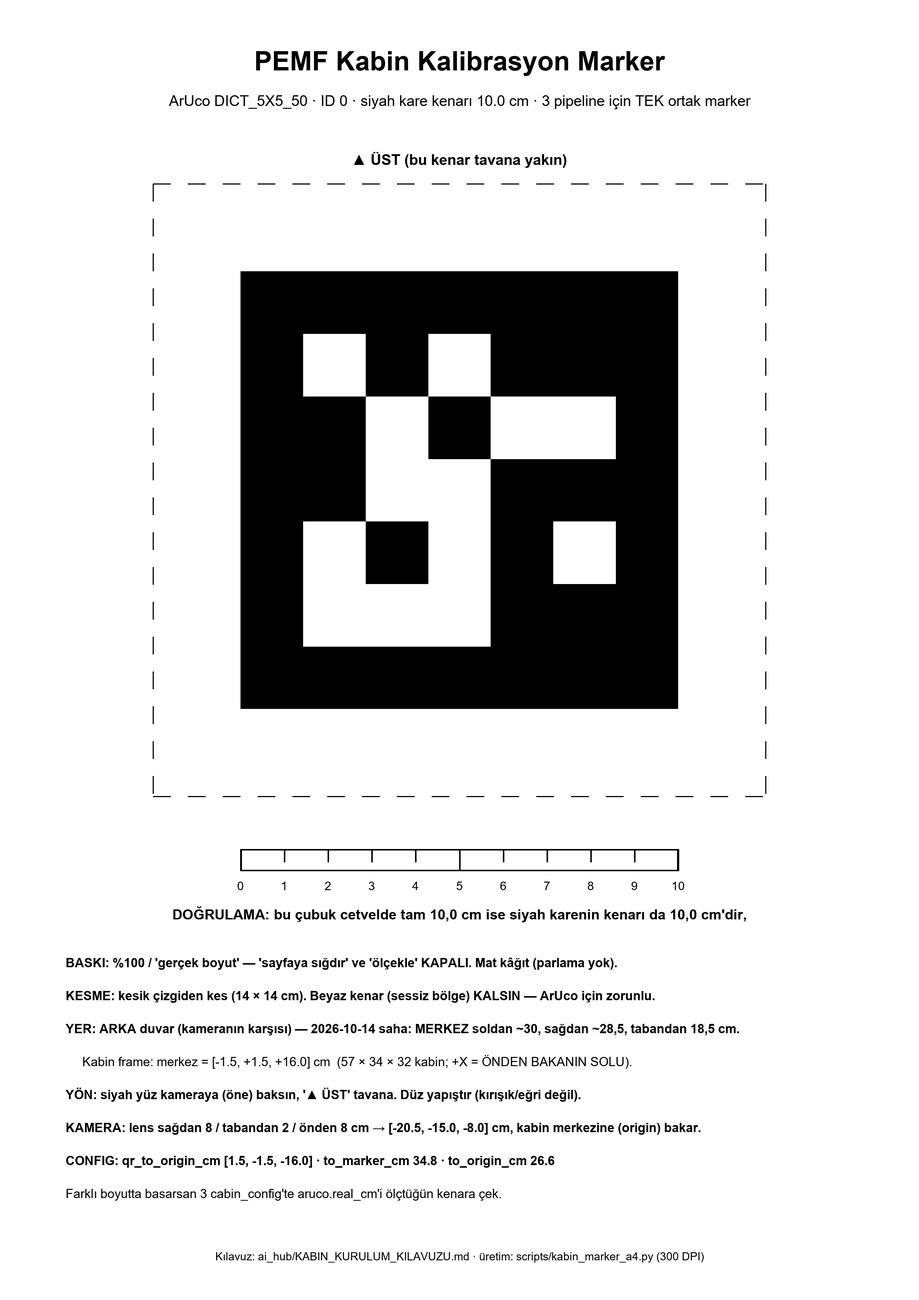
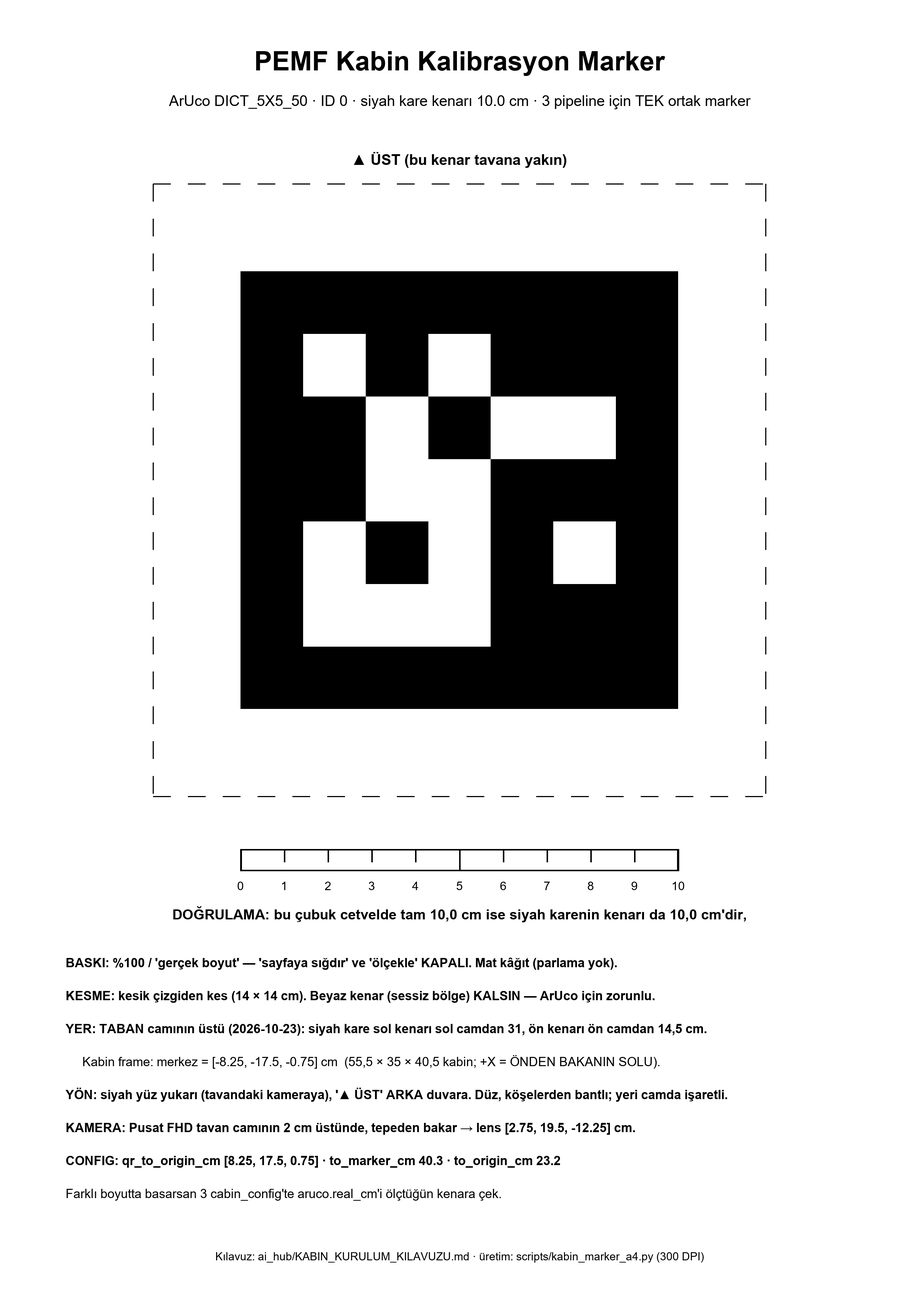
data(kabin): T3 TEZGAH-2B §7 kabin ölçüleri — taban işareti + tavan kamerası, 55,5×35×40,5, hedef düzlemi −17,2, petri deney yeri
Üç kabin YAML'ı (petri v2 · fantom v3 · kedi) TEZGÂH-2B (2026-10-23, sahip şerit metre + ArUco) değerleriyle:
işaret taban camının üstünde (normal "+Y", up_cabin [0, 0, 1]), qr_to_origin [8.25, 17.5, 0.75], cabin_extent
[55.5, 35.0, 40.5], lens [2.75, 19.5, -12.25] (to_marker 40.3 / to_origin 23.2), hedef düzlemi Y −17,2 (petri kuyu
tabanı; fantom aynı değeri taşır — "iki YAML bir kabin" kapısı; fantom kalınlığı ölçülmedi, fantom AI Pro kapalı Y145),
petri multiwell.placement deney yeri a1 [161.7, -172.0, -14.1] / col [-1, 0, 0] / row [0, 0, -1] (yalnız işaret
görünmezken kullanılır; T2B B7). intrinsics_npz T2D'deki M2 dosyası, değişmedi.
Kapı test_kabin_config_65x50x50 yeni değerlere ve taban işareti sessiz bölge kuralına; basılı işaret sayfasının
talimatı (+ PNG yeniden üretildi) ve kabin kılavuzu aynı sayıları söyler. Kod davranışı değişmedi.
Kabin YAML'ını örtük fikstür kullanan testler: sabit test kabini (kabin_test_geometrisi) yönelim alanlarını da
sabitler (normal / up_cabin / hedef düzlemi — 2026-09-08 düzeni); ters işaret kapıları açık TD4 duvar düzeninde (taban
işaretinde `isaret_ters_mi` karar vermez — T2B B3, yayından sonra); kabin dışı bant sabitleri T2B kabinine.

Changed region(s): [[0.1552, 0.7768, 0.7762, 0.9011], [0.1242, 0.7768, 0.1552, 0.8079]]

diff --git a/tests/test_kabin_config_65x50x50.py b/tests/test_kabin_config_65x50x50.py
@@ -1,8 +1,9 @@
 # Author: mertaygn, cglrgrkn
 """Kabin geometrisi + basılı ArUco marker + cat_organ yaml'ı GERÇEKTEN okur (2026-09-08; ölçüler TD4 2026-10-14).
 
-⚠ Dosya adı TARİHÇEDİR (65×50×50). Güncel SAHA kabini (tezgâh Oturum 13, sahip şerit metreyle): iç 57 × 34 × 32 cm;
-işaret arka duvar merkez (-1.5, +1.5, +16), 10 cm; kamera lensi sağdan 8 / tabandan 2 / önden 8 → (-20.5, -15, -8).
+⚠ Dosya adı TARİHÇEDİR (65×50×50). Güncel kabin (TEZGÂH-2B 2026-10-23, sahip şerit metre + ArUco): iç 55,5 × 35 × 40,5 cm;
+işaret TABAN camının üstünde, merkez (-8.25, -17.5, -0.75), 10 cm, siyah yüz yukarı, üst kenarı arka duvara; kamera (Pusat FHD)
+tavan camının üstünde tepeden → lens (2.75, 19.5, -12.25). (Oturum 13 2026-10-14: 57 × 34 × 32, arka duvar işareti — eski.)
 Eksen kuralı: +X = ÖNDEN BAKANIN SOLU (eski açıklamalar "sağ = +X" diyordu — aynaydı). Bu dosya ÖLÇER:
   (a) üç yaml parse edilir, aynı geometriyi taşır, mesafeler vektörlerden hesaplananla ±0.2 cm uyuşur,
       marker sözlüğü/kenarı basılı sayfa üreticisinin sabitleriyle aynıdır;
@@ -29,10 +30,10 @@ YAMLLAR = {
     "em_fantom": KOK / "ai_hub" / "inference_em_fantom" / "phantom_cv_v3" / "cabin_config_v3.yaml",
     "petri": KOK / "ai_hub" / "inference_petri_dish" / "petri_cv_v2" / "cabin_config_v2.yaml",
 }
-# TD4 (2026-10-14 saha olcusu, tezgah Oturum 13 yamasi). Sessiz bolge kurali kenardan TURETILIR (asagida).
-EXTENT = [57.0, 34.0, 32.0]
-KAMERA = [-20.5, -15.0, -8.0]
-MARKER = [-1.5, 1.5, 16.0]
+# T2B (2026-10-23 olcusu; TEZGAH-2B.md §7). Sessiz bolge kurali kenardan TURETILIR (asagida).
+EXTENT = [55.5, 35.0, 40.5]
+KAMERA = [2.75, 19.5, -12.25]
+MARKER = [-8.25, -17.5, -0.75]
 ISARET_KENAR_CM = 10.0
 SESSIZ_CM = 2.0
 
@@ -52,20 +53,20 @@ def test_KRITIK_yaml_geometri_65x50x50_ve_mesafeler_tutarli(ad):
     assert marker == MARKER, f"{ad}: marker merkezi {marker} (qr_to_origin={g['qr_to_origin_cm']})"
     # ⚠ Isaret + sessiz bolge duvar/tavana SIGMALI: merkez >= kenar/2 + sessiz kadar iceride.
     # Sabit "7" idi ve 10 cm isarete gore hesaplanmisti; 15 cm'de 9,5 cm gerekir -> kenardan TURET.
+    # Taban işareti: sessiz bölge X (sol / sağ cam) ve Z (ön / arka cam) yönünde sığmalı.
     ic = float(a["real_cm"]) / 2 + SESSIZ_CM
-    assert -EXTENT[0] / 2 + ic <= marker[0], (
-        f"{ad}: marker sol duvara {marker[0] + EXTENT[0] / 2:.1f} cm — sessiz bölge taşar (asgari {ic})"
-    )
-    assert marker[1] <= EXTENT[1] / 2 - ic, (
-        f"{ad}: marker tavana {EXTENT[1] / 2 - marker[1]:.1f} cm — sessiz bölge taşar (asgari {ic})"
-    )
-    assert marker[2] == EXTENT[2] / 2, f"{ad}: marker arka duvarda değil"
+    for i, eksen in ((0, "sol / sağ cam"), (2, "ön / arka cam")):
+        assert -EXTENT[i] / 2 + ic <= marker[i] <= EXTENT[i] / 2 - ic, (
+            f"{ad}: marker {eksen} yönünde kenara {EXTENT[i] / 2 - abs(marker[i]):.1f} cm — sessiz bölge taşar (asgari {ic})"
+        )
+    assert marker[1] == -EXTENT[1] / 2, f"{ad}: marker taban camının üstünde değil (Y={marker[1]})"
     to_o = math.dist(KAMERA, [0, 0, 0])
     to_m = math.dist(KAMERA, marker)
     assert abs(to_o - float(c["to_origin_cm"])) <= 0.2, f"{ad}: to_origin {c['to_origin_cm']} ≠ {to_o:.2f}"
     assert abs(to_m - float(c["to_marker_cm"])) <= 0.2, f"{ad}: to_marker {c['to_marker_cm']} ≠ {to_m:.2f}"
     assert a["dict"] == "DICT_5X5_50" and float(a["real_cm"]) == ISARET_KENAR_CM
-    assert str(a["normal_axis_in_cabin"]).upper() == "-Z", "marker arka duvarda öne (kameraya) bakar"
+    assert str(a["normal_axis_in_cabin"]).upper() == "+Y", "marker tabanda yukarı (tavandaki kameraya) bakar"
+    assert [float(x) for x in c["up_cabin"]] == [0.0, 0.0, 1.0], f"{ad}: işaretin üst kenarı arka duvara (+Z)"
 
 
 def test_uc_pipeline_AYNI_kabini_tanimlar():
@@ -110,7 +111,7 @@ def test_marker_sayfasi_uretici_sabitleri_yaml_ile_AYNI():
     assert re.search(r'^DICT_ADI = "DICT_5X5_50"$', src, re.M) and re.search(r"^MARKER_ID = 0$", src, re.M)
     assert re.search(rf"^KENAR_CM = {ISARET_KENAR_CM:g}\.0", src, re.M)
     # sayfadaki talimat kabin sayılarını yaml ile aynı söyler
-    assert "[-1.5, +1.5, +16.0]" in src and "[-20.5, -15.0, -8.0]" in src and "[1.5, -1.5, -16.0]" in src
+    assert "[-8.25, -17.5, -0.75]" in src and "[2.75, 19.5, -12.25]" in src and "[8.25, 17.5, 0.75]" in src
 
 
 def test_marker_sayfasi_cv2_ile_ID0_ve_KENAR_bulunur():
@@ -129,7 +130,14 @@ def test_marker_sayfasi_cv2_ile_ID0_ve_KENAR_bulunur():
 
 def test_kilavuz_ayni_sayilari_soyler_ve_marker_png_depoda():
     k = (KOK / "ai_hub" / "KABIN_KURULUM_KILAVUZU.md").read_text(encoding="utf-8")
-    for s in ("[57, 34, 32]", "[-20.5, -15, -8]", "[-1.5, +1.5, +16]", "[1.5, -1.5, -16]", "26.6", "34.8"):
+    for s in (
+        "[55.5, 35, 40.5]",
+        "[2.75, 19.5, -12.25]",
+        "[-8.25, -17.5, -0.75]",
+        "[8.25, 17.5, 0.75]",
+        "23.2",
+        "40.3",
+    ):
         assert s in k, f"kılavuzda {s} yok"
     sayfa = f"PEMF_ArUco_Marker_5X5_50_ID0_{ISARET_KENAR_CM:g}cm_A4"
     assert f"{sayfa}.pdf" in k and "kabin_marker_a4.py" in k

diff --git a/tests/kabin_test_geometrisi.py b/tests/kabin_test_geometrisi.py
@@ -2,8 +2,10 @@
 # Author: mertaygn, cglrgrkn
 """Test aparatı (TD4, 2026-10-14): MANTIK kapıları için SABİT test kabini — 2026-09-08 düzeni (65 × 50 × 50 cm).
 
-NEDEN: ürün kabin YAML'ı artık SAHA ölçüsünü taşır (tezgâh Oturum 13: iç 57 × 34 × 32, kamera ve işaret YENİDEN yerleşecek →
-konum alanları yine değişecek). Kabin sınırı / koordinat dönüşümü / kıskaç kapıları bant ve mutantlarını belirli bir geometride
+NEDEN: ürün kabin YAML'ı SAHA ölçüsünü taşır (tezgâh Oturum 13: iç 57 × 34 × 32 → T2B 2026-10-23: 55,5 × 35 × 40,5, işaret
+TABANDA, kamera tavanda; yerleşim yine değişebilir). T3 (2026-10-23): yönelim alanları (işaret normali, `up_cabin`, hedef düzlemi) da
+sabitlenir — işaret tabana inince ürün YAML'ından gelen normal / up bu düzenin arka duvar işaretiyle ÇELİŞİYORDU (D1.100 "kameranın
+arkasında kesişen ışın" aparatı pikseli bulamadı, marker→kabin rotasyon kapısı taban dönüşümünü gördü). Kabin sınırı / koordinat dönüşümü / kıskaç kapıları bant ve mutantlarını belirli bir geometride
 ölçer: ör. Y49'un hedeflediği `yari = min(300, extent/2)` mutantı yarı genişlik 285 mm'de EŞDEĞER olur (kapı körleşir), i7 F-9
 "kabin içi ama eğitim dışı x ∈ (300, 325]" bandı yeni kabinde hiç yoktur. Bu testler geometriyi buradan alır; ÜRÜN geometrisi
 `tests/test_kabin_config_65x50x50.py` + `tests/test_TD4_kabin_ISARET_TERS_tavan_up_cabin_ve_intrinsics.py` ile denetlenir.
@@ -19,18 +21,51 @@ SABIT = {
     "to_marker_cm": 83.3,
     "to_origin_cm": 48.0,
     "real_cm": 15.0,
+    # T3: yönelim (2026-09-08 düzeni = arka duvar işareti, yüzü öne; üst kenarı tavana; hedef düzlemi Y = -20 cm).
+    "normal_axis_in_cabin": "-Z",
+    "up_cabin": [0.0, 1.0, 0.0],
+    "hedef_duzlem_eksen": "Y",
+    "hedef_duzlem_cm": -20.0,
 }
+
+#: TD4 DUVAR DÜZENİ (tezgâh Oturum 13, 2026-10-14 saha ölçüsü; T2B'ye dek ürün YAML'ıydı): arka duvar işareti — `isaret_ters_mi`
+#: (ters kâğıt) mekanizması YALNIZ duvar işaretinde karar verir; ürün kabini T2B'den beri TABAN işareti (karar vermez — T2B B3).
+TD4_DUVAR = {
+    "cabin_extent_cm": [57.0, 34.0, 32.0],
+    "qr_to_origin_cm": [1.5, -1.5, -16.0],
+    "fixed_position_cm": [-20.5, -15.0, -8.0],
+    "to_marker_cm": 34.8,
+    "to_origin_cm": 26.6,
+    "real_cm": 10.0,
+    "normal_axis_in_cabin": "-Z",
+    "up_cabin": [0.0, 1.0, 0.0],
+    "hedef_duzlem_eksen": "Y",
+    "hedef_duzlem_cm": -20.0,
+}
+
+
+def _uygula(cfg, g):
+    cfg.geometry.cabin_extent_cm = list(g["cabin_extent_cm"])
+    cfg.geometry.qr_to_origin_cm = list(g["qr_to_origin_cm"])
+    cfg.camera.fixed_position_cm = list(g["fixed_position_cm"])
+    cfg.camera.to_marker_cm = g["to_marker_cm"]
+    cfg.camera.to_origin_cm = g["to_origin_cm"]
+    cfg.camera.up_cabin = list(g["up_cabin"])
+    cfg.aruco.real_cm = g["real_cm"]
+    cfg.aruco.normal_axis_in_cabin = g["normal_axis_in_cabin"]
+    cfg.phantom_plate.hedef_duzlem_eksen = g["hedef_duzlem_eksen"]
+    cfg.phantom_plate.hedef_duzlem_cm = g["hedef_duzlem_cm"]
+    return cfg
 
 
 def sabit_kabin(cfg):
     """`ai_hub.cv_ortak.cabin_config.CabinConfig` → sabit test kabinine çevir (yerinde) ve döndür."""
-    cfg.geometry.cabin_extent_cm = list(SABIT["cabin_extent_cm"])
-    cfg.geometry.qr_to_origin_cm = list(SABIT["qr_to_origin_cm"])
-    cfg.camera.fixed_position_cm = list(SABIT["fixed_position_cm"])
-    cfg.camera.to_marker_cm = SABIT["to_marker_cm"]
-    cfg.camera.to_origin_cm = SABIT["to_origin_cm"]
-    cfg.aruco.real_cm = SABIT["real_cm"]
-    return cfg
+    return _uygula(cfg, SABIT)
+
+
+def td4_duvar_kabini(cfg):
+    """`CabinConfig` → TD4 duvar düzenine çevir (yerinde) ve döndür (ters işaret kapıları)."""
+    return _uygula(cfg, TD4_DUVAR)
 
 
 def sabit_kabin_dict(cfg: dict) -> dict:
@@ -46,8 +81,11 @@ def sabit_kabin_dict(cfg: dict) -> dict:
         fixed_position_cm=list(SABIT["fixed_position_cm"]),
         to_marker_cm=SABIT["to_marker_cm"],
         to_origin_cm=SABIT["to_origin_cm"],
+        up_cabin=list(SABIT["up_cabin"]),
     )
-    d["aruco"] = dict(d.get("aruco") or {}, real_cm=SABIT["real_cm"])
+    d["aruco"] = dict(
+        d.get("aruco") or {}, real_cm=SABIT["real_cm"], normal_axis_in_cabin=SABIT["normal_axis_in_cabin"]
+    )
     return d
 
 

diff --git a/tests/test_TD4_kabin_ISARET_TERS_tavan_up_cabin_ve_intrinsics.py b/tests/test_TD4_kabin_ISARET_TERS_tavan_up_cabin_ve_intrinsics.py
@@ -9,8 +9,11 @@
     yükleme sessizce kabul ediyordu.
   * `intrinsics_npz` kalibrasyonu farklı çözünürlükteyse fantom v3 hattı K'yı ÖLÇEKLEMİYOR (petri v2 ölçekliyor —
     2026-09-09 kuralı) → solvePnP mesafeyi çözünürlük oranı kadar yanlış verir.
-DÜZENEK: ÜRÜN YAML'ından fiziksel tutarlı poz (tests/kabin_fiziksel_poz.py) + GERÇEK ArUco görüntüsü sentezlenir (cv2.aruco
-işareti + sessiz bölge, homografiyle kameranın gördüğü yere) → GERÇEK `detect_aruco_marker` + `solve_cabin_pose` + hat.
+DÜZENEK: TD4 DUVAR DÜZENİ (Oturum 13 ölçüsü, `kabin_test_geometrisi.td4_duvar_kabini`) ile ürün YAML'ından fiziksel tutarlı poz
+(tests/kabin_fiziksel_poz.py) + GERÇEK ArUco görüntüsü sentezlenir (cv2.aruco işareti + sessiz bölge, homografiyle kameranın gördüğü
+yere) → GERÇEK `detect_aruco_marker` + `solve_cabin_pose` + hat. T3 (2026-10-23): ürün kabini T2B'den beri TABAN işareti; ters
+işaret kararı yalnız duvar işaretinde verilir (`isaret_ters_mi` taban / tavanda False — T2B B3, yayından sonra) → mekanizma kapısı
+duvar düzeninde ölçülür.
 """
 
 from __future__ import annotations
@@ -35,9 +38,11 @@ def _ct():
 
 
 def _cfg(p=FANTOM_YAML):
+    from kabin_test_geometrisi import td4_duvar_kabini
+
     from ai_hub.cv_ortak.cabin_config import load_cabin_config
 
-    return load_cabin_config(p)
+    return td4_duvar_kabini(load_cabin_config(p))
 
 
 def _sentetik(cfg, *, ters: bool, boyut=(1280, 720)):
@@ -186,7 +191,11 @@ from test_koordinat_donusumu_FIZIKSEL_poz_DOGRULUK_ve_RED import _aruco_yamala  
 @pytest.mark.parametrize("ters", [False, True])
 def test_KRITIK_petri_hatti_ters_isarette_UYARIR(petri_hatti, monkeypatch, ters):
     """Petri v2 hattı da (GERÇEK `process_image`, sahte YOLO + ArUco aparatı) ters işareti söyler; düz işarette söylemez."""
+    from kabin_test_geometrisi import td4_duvar_kabini
+
     pp, kos, _Yolo = petri_hatti
+    _gercek_yukle = pp.load_cabin_config
+    monkeypatch.setattr(pp, "load_cabin_config", lambda *a, **k: td4_duvar_kabini(_gercek_yukle(*a, **k)))
     _aruco_yamala(pp, monkeypatch, [])
     if ters:  # kâğıt 180°: işaretin +Y'si kamerada AŞAĞI
         asil = pp.solve_cabin_pose

diff --git a/scripts/kabin_marker_a4.py b/scripts/kabin_marker_a4.py
@@ -119,11 +119,11 @@ def sayfa_uret() -> Image.Image:
     satirlar = [
         "BASKI: %100 / 'gerçek boyut' — 'sayfaya sığdır' ve 'ölçekle' KAPALI. Mat kâğıt (parlama yok).",
         "KESME: kesik çizgiden kes (14 × 14 cm). Beyaz kenar (sessiz bölge) KALSIN — ArUco için zorunlu.",
-        "YER: ARKA duvar (kameranın karşısı) — 2026-10-14 saha: MERKEZ soldan ~30, sağdan ~28,5, tabandan 18,5 cm.",
-        "     Kabin frame: merkez = [-1.5, +1.5, +16.0] cm  (57 × 34 × 32 kabin; +X = ÖNDEN BAKANIN SOLU).",
-        "YÖN: siyah yüz kameraya (öne) baksın, '▲ ÜST' tavana. Düz yapıştır (kırışık/eğri değil).",
-        "KAMERA: lens sağdan 8 / tabandan 2 / önden 8 cm → [-20.5, -15.0, -8.0] cm, kabin merkezine (origin) bakar.",
-        "CONFIG: qr_to_origin_cm [1.5, -1.5, -16.0] · to_marker_cm 34.8 · to_origin_cm 26.6",
+        "YER: TABAN camının üstü (2026-10-23): siyah kare sol kenarı sol camdan 31, ön kenarı ön camdan 14,5 cm.",
+        "     Kabin frame: merkez = [-8.25, -17.5, -0.75] cm  (55,5 × 35 × 40,5 kabin; +X = ÖNDEN BAKANIN SOLU).",
+        "YÖN: siyah yüz yukarı (tavandaki kameraya), '▲ ÜST' ARKA duvara. Düz, köşelerden bantlı; yeri camda işaretli.",
+        "KAMERA: Pusat FHD tavan camının 2 cm üstünde, tepeden bakar → lens [2.75, 19.5, -12.25] cm.",
+        "CONFIG: qr_to_origin_cm [8.25, 17.5, 0.75] · to_marker_cm 40.3 · to_origin_cm 23.2",
         "Farklı boyutta basarsan 3 cabin_config'te aruco.real_cm'i ölçtüğün kenara çek.",
     ]
     ty = cy + _cm(2.6)

diff --git a/tests/test_ai_pro_hedef_KABIN_DISI_ve_HEDEF_KAYBI_STOP.py b/tests/test_ai_pro_hedef_KABIN_DISI_ve_HEDEF_KAYBI_STOP.py
@@ -112,18 +112,18 @@ def _kabin_yari_mm() -> tuple:
 
 
 def test_ARAC_kabin_yapilandirmasi_beklenen_yari_boyut():
-    # TD4 (2026-10-14 saha ölçüsü, tezgâh Oturum 13): iç 57 × 34 × 32 cm (eski 65 × 50 × 50).
-    assert _kabin_yari_mm() == (285.0, 170.0, 160.0), f"paketli kabin yapılandırması değişti: {_kabin_yari_mm()}"
+    # T2B (2026-10-23 ölçüsü): iç 55,5 × 35 × 40,5 cm (Oturum 13: 57 × 34 × 32; eski 65 × 50 × 50).
+    assert _kabin_yari_mm() == (277.5, 175.0, 202.5), f"paketli kabin yapılandırması değişti: {_kabin_yari_mm()}"
 
 
 @pytest.mark.parametrize(
     "koord_cm",
     [
-        (0.0, 25.5, 0.0),  # y: 255 mm (eski kabinde ölçülen) > 170
-        (30.0, -30.0, -30.0),  # telde 51/51 sürülen nokta (kıskaç öncesi): y/z kabin dışı
-        (0.0, 17.1, 0.0),  # y sınırın hemen dışı (170 mm — TD4 saha kabini)
-        (0.0, 0.0, 16.1),  # z sınırın hemen dışı (160 mm)
-        (28.6, 0.0, 0.0),  # x sınırın hemen dışı (285 mm)
+        (0.0, 25.5, 0.0),  # y: 255 mm (eski kabinde ölçülen) > 175
+        (30.0, -30.0, -30.0),  # telde 51/51 sürülen nokta (kıskaç öncesi): x/y/z kabin dışı
+        (0.0, 17.6, 0.0),  # y sınırın hemen dışı (175 mm — T2B kabini)
+        (0.0, 0.0, 20.3),  # z sınırın hemen dışı (202,5 mm)
+        (27.8, 0.0, 0.0),  # x sınırın hemen dışı (277,5 mm)
         (math.nan, 0.0, 0.0),
         (0.0, math.inf, 0.0),
         (0.0, 0.0, -math.inf),

diff --git a/ai_hub/KABIN_KURULUM_KILAVUZU.md b/ai_hub/KABIN_KURULUM_KILAVUZU.md
@@ -8,21 +8,23 @@ donanım = kabin + kamera + basılı QR; yazılım = `cabin_config_example.yaml`
 
 ---
 
-## ✅ SAHA KABİNİ (2026-10-14 — tezgâh Oturum 13, sahip şerit metreyle ölçtü)
+## ✅ KABİN (2026-10-23 — TEZGÂH-2B, sahip şerit metre + ArUco; Oturum 13'ün 57 × 34 × 32 / arka duvar düzeni ESKİ)
 
-> ⚠ Sahip: "kamera ve işaret konum değişikliğine gideceğiz" — `qr_to_origin_cm`, `fixed_position_cm`, `to_marker_cm`,
-> `to_origin_cm` YENİ yerleşimde yeniden ölçülecek. Kalıcı olanlar: `cabin_extent_cm` ve `real_cm`.
+> Kamera (Pusat "FHD Camera", 1920×1080) tavan camının 2 cm üstünde, tepeden bakar; işaret TABAN camının üstünde.
+> Kamera ya da işaret kaydırılırsa `qr_to_origin_cm`, `fixed_position_cm`, `to_marker_cm`, `to_origin_cm` yeniden ölçülür.
 
 | Öğe | Değer (origin = kabin merkezi = coil merkezi = 0,0,0) |
 |---|---|
 | **Eksen kuralı** | **+X = ÖNDEN BAKANIN SOLU** (kedinin kafa yönü) · **+Y = yukarı** · **+Z = arkaya** — kodla ölçüldü (TEZGAH-OTURUM-13 §F2). 2026-10-14'e kadar bu kılavuz ve YAML açıklamaları "sağ-alt-ÖN = +X" diyordu: **AYNAYDI** |
-| **Kabin iç boyut** | `cabin_extent_cm: [57, 34, 32]` — [X genişlik, Y yükseklik, Z derinlik (ön −/arka +)] |
-| **Duvarlar** | X = ±28.5 (**sol +28.5, sağ −28.5**) · Y = ±17 (taban −17, tavan +17) · Z = ±16 (ön −16, arka +16) |
-| **Kamera lensi** | `fixed_position_cm: [-20.5, -15, -8]` = **sağdan 8 · tabandan 2 · önden 8 cm**, **origin'e bakar** |
-| **QR marker merkezi** | **ARKA duvar (arka cam, Z=+16)**: soldan ~30 · sağdan ~28,5 · tabandan 18,5 cm → `[-1.5, +1.5, +16]` |
-| **qr_to_origin_cm** | origin − marker = `[1.5, -1.5, -16]` |
-| **Marker** | DICT_5X5_50 · ID 0 · **10×10 cm** (cetvel) · siyah yüz kameraya (öne, `normal_axis "-Z"`) · "▲ ÜST" **tavana** |
-| **Şerit-metre** | kamera→origin = **26.6 cm** · kamera→marker merkezi = **34.8 cm** |
+| **Kabin iç boyut** | `cabin_extent_cm: [55.5, 35, 40.5]` — [X sol↔sağ cam, Y alt↔üst cam, Z ön↔arka cam] |
+| **Duvarlar** | X = ±27.75 (**sol +27.75, sağ −27.75**) · Y = ±17.5 (taban camı −17.5, tavan camı +17.5) · Z = ±20.25 (ön −20.25, arka +20.25) |
+| **Kamera lensi** | `fixed_position_cm: [2.75, 19.5, -12.25]` = **sol camdan 25 · ön camdan 8 · taban camından 37 cm** (tavan camının 2 cm üstü), tepeden bakar |
+| **QR marker merkezi** | **TABAN camının üstü (Y=−17.5)**: siyah kare sol kenarı sol camdan 31 · ön kenarı ön camdan 14,5 cm → `[-8.25, -17.5, -0.75]` |
+| **qr_to_origin_cm** | origin − marker = `[8.25, 17.5, 0.75]` |
+| **Marker** | DICT_5X5_50 · ID 0 · **10×10 cm** (cetvel) · siyah yüz **yukarı** (tavandaki kameraya, `normal_axis "+Y"`) · "▲ ÜST" **arka duvara** (`up_cabin [0, 0, 1]`) |
+| **Şerit-metre** | kamera→origin = **23.2 cm** · kamera→marker merkezi = **40.3 cm** |
+| **Hedef düzlemi** | `hedef_duzlem_cm: -17.2` — 24'lük plaka taban camının üstünde, kuyu tabanı camdan ~0,3 cm |
+| **Plaka deney yeri** | `multiwell.placement.a1_cabin_mm: [161.7, -172.0, -14.1]` — yalnız işaret GÖRÜNMEZKEN kullanılır; plaka camda bantla işaretli yerde durmalı |
 
 > ⚠ **Ters işaret:** 2026-10-14'te kâğıt 180° TERS bulundu ve çevrildi. Kod artık bunu `rvec`'ten görür: analiz sonucunda
 > `marker_upside_down` — "Kabin işareti ters takılmış görünüyor — üst kenar tavana bakacak şekilde çevirin" — ve sonuç
@@ -151,21 +153,21 @@ tam rotasyonun `rvec`ten türetilmesi gerekir (ayrı iş). Yapıştırdıktan so
 | **Origin (0,0,0)** | Kabin merkezi = **coil array merkezi** |
 | **Eksenler** | **+X = önden bakanın SOLU** (genişlik/kafa yönü) · **+Y = yukarı (dorsal)** · **+Z = arka (derinlik)** |
 | **QR marker** | **TEK ortak marker**: `ai_hub/PEMF_ArUco_Marker_5X5_50_ID0_10cm_A4.pdf`. `DICT_5X5_50`, ID `0`, **kenar = 10.0 cm** (saha ölçüsü 2026-10-14, cetvel) |
-| **QR yeri** | **ARKA duvar** (2026-10-14: ortaya yakın, merkez `[-1.5, +1.5, +16]`; sessiz bölge duvara sığmalı: merkez duvardan ≥ 5 + 2 cm); **siyah yüz kameraya (öne) bakar**, "▲ ÜST" tavana. Tavan / taban işaretinde `camera.up_cabin` ZORUNLU |
-| **Kamera** | **origin'e (0,0,0) bakar**, "up" yönü = **+Y**; konum duvarlardan: X = −28.5 + (sağdan), Y = −17 + (tabandan), Z = −16 + (önden) |
+| **QR yeri** | **TABAN camının üstü** (2026-10-23: merkez `[-8.25, -17.5, -0.75]`; sessiz bölge camlara sığmalı: merkez camdan ≥ 5 + 2 cm); **siyah yüz yukarı (kameraya) bakar**, "▲ ÜST" arka duvara. Tavan / taban işaretinde `camera.up_cabin` ZORUNLU. ⚠ Taban işaretinde ters / döndürülmüş kâğıdı kod ANLAMAZ — yeri ve yönü camda bantla işaretli kalır |
+| **Kamera** | tavan camının üstünde, tepeden bakar; konum camlardan: X = 27.75 − (sol camdan), Y = −17.5 + (taban camından), Z = −20.25 + (ön camdan) |
 
 > ⚠ Marker'ı **tam 10×10 cm** bas (sayfadaki 10 cm cetvel çubuğunu cetvelle doğrula). Farklı basarsan
 > 3 config'te `real_cm`'i o değere çek — yoksa ölçek (mm/px) ve 3B konum yanlış olur.
 
 ---
 
-## 2) ÖLÇÜLER (saha — 2026-10-14)
+## 2) ÖLÇÜLER (TEZGÂH-2B — 2026-10-23)
 
 | | cabin_extent [X,Y,Z] | kamera lens [x,y,z] | marker merkezi | qr→origin [x,y,z] |
 |---|---|---|---|---|
-| **cat_organ** | `[57, 34, 32]` | `[-20.5, -15, -8]` | `[-1.5, +1.5, +16]` | `[1.5, -1.5, -16]` |
-| **em_fantom** | `[57, 34, 32]` | `[-20.5, -15, -8]` | `[-1.5, +1.5, +16]` | `[1.5, -1.5, -16]` |
-| **petri** | `[57, 34, 32]` | `[-20.5, -15, -8]` | `[-1.5, +1.5, +16]` | `[1.5, -1.5, -16]` |
+| **cat_organ** | `[55.5, 35, 40.5]` | `[2.75, 19.5, -12.25]` | `[-8.25, -17.5, -0.75]` | `[8.25, 17.5, 0.75]` |
+| **em_fantom** | `[55.5, 35, 40.5]` | `[2.75, 19.5, -12.25]` | `[-8.25, -17.5, -0.75]` | `[8.25, 17.5, 0.75]` |
+| **petri** | `[55.5, 35, 40.5]` | `[2.75, 19.5, -12.25]` | `[-8.25, -17.5, -0.75]` | `[8.25, 17.5, 0.75]` |
 
 Kamera lensi köşeye tam oturmuyorsa (gövde/tripod payı) **gerçek lens konumunu** ölç ve `fixed_position_cm`'e
 yaz; `to_origin_cm` / `to_marker_cm`'i §3'teki formülle yeniden hesapla. Kamera-sabitli modda tek kritik sayı budur.
@@ -174,11 +176,11 @@ yaz; `to_origin_cm` / `to_marker_cm`'i §3'teki formülle yeniden hesapla. Kamer
 
 ## 3) DOĞRULAMA (kabin kurulunca — ±2 cm tolerans)
 
-- `marker_pos = -qr_to_origin_cm` → `[-1.5, +1.5, +16]` ✓
-- `to_origin_cm  == |camera.fixed_position_cm|` → `|(-20.5, -15, -8)| = √(420.25+225+64) = 26.6` ✓
-- `to_marker_cm  == |camera.fixed_position_cm - marker_pos|` → `|(-19, -16.5, -24)| = √(361+272.25+576) = 34.8` ✓
+- `marker_pos = -qr_to_origin_cm` → `[-8.25, -17.5, -0.75]` ✓
+- `to_origin_cm  == |camera.fixed_position_cm|` → `|(2.75, 19.5, -12.25)| = √(7.5625+380.25+150.0625) = 23.2` ✓
+- `to_marker_cm  == |camera.fixed_position_cm - marker_pos|` → `|(11, 37, -11.5)| = √(121+1369+132.25) = 40.3` ✓
 
-Şerit metreyle: lens→kabin merkezi **26,6 cm**, lens→marker merkezi **34,8 cm** okunmalı.
+Şerit metreyle: lens→kabin merkezi **23,2 cm**, lens→marker merkezi **40,3 cm** okunmalı.
 
 ---
 
@@ -187,10 +189,10 @@ yaz; `to_origin_cm` / `to_marker_cm`'i §3'teki formülle yeniden hesapla. Kamer
 1. `PEMF_ArUco_Marker_5X5_50_ID0_10cm_A4.pdf`'i **%100 / "gerçek boyut"** bas ("sayfaya sığdır" ve
    "ölçekle" KAPALI, mat kâğıt). Sayfadaki **10 cm cetvel çubuğu** cetvelde tam 10,0 cm ise marker doğru.
 2. Kesik çizgiden kes (**14×14 cm**). Etrafındaki **beyaz kenar (sessiz bölge) kalsın** — ArUco için ZORUNLU.
-3. **Arka duvar**: **düz** yapıştır (kırışık/eğri değil), **siyah yüz kameraya**, "▲ ÜST" **tavana** (ters takılırsa
-   analiz `marker_upside_down` der ve sürmez).
-   ⚠ **YAPIŞTIRDIKTAN SONRA CETVELLE ÖLÇ** (merkezin sol duvara `a`, tabana `b` uzaklığı, cm) ve yaml'ı yaz:
-   `qr_to_origin_cm = [a - 28.5, 17 - b, -16]` (+X = önden bakanın SOLU; 2026-10-14: a ≈ 30, b = 18,5 → `[1.5, -1.5, -16]`)
+3. **Taban camının üstü**: **düz**, köşelerinden bantlı (kırışık/eğri değil), **siyah yüz yukarı**, "▲ ÜST" **arka duvara**;
+   yeri ve yönü camda bantla işaretlensin (taban işaretinde ters / döndürülmüş kâğıdı kod anlamaz, konumlar yanlış çıkar).
+   ⚠ **YAPIŞTIRDIKTAN SONRA CETVELLE ÖLÇ** (merkezin sol cama `a`, ön cama `c` uzaklığı, cm) ve yaml'ı yaz:
+   `qr_to_origin_cm = [a - 27.75, 17.5, 20.25 - c]` (+X = önden bakanın SOLU; 2026-10-23: a = 36, c = 19,5 → `[8.25, 17.5, 0.75]`)
    ve `to_marker_cm`i yeniden hesapla. 1 cm'lik sapma 3B konumda ~1 cm hata demektir.
 4. Işık: homojen, **parlama/yansıma yok** (marker üstünde ışık lekesi tespiti bozar).
 5. Yeniden üretmek için: `python scripts/kabin_marker_a4.py --masaustu` (300 DPI, kendi kendini doğrular).
